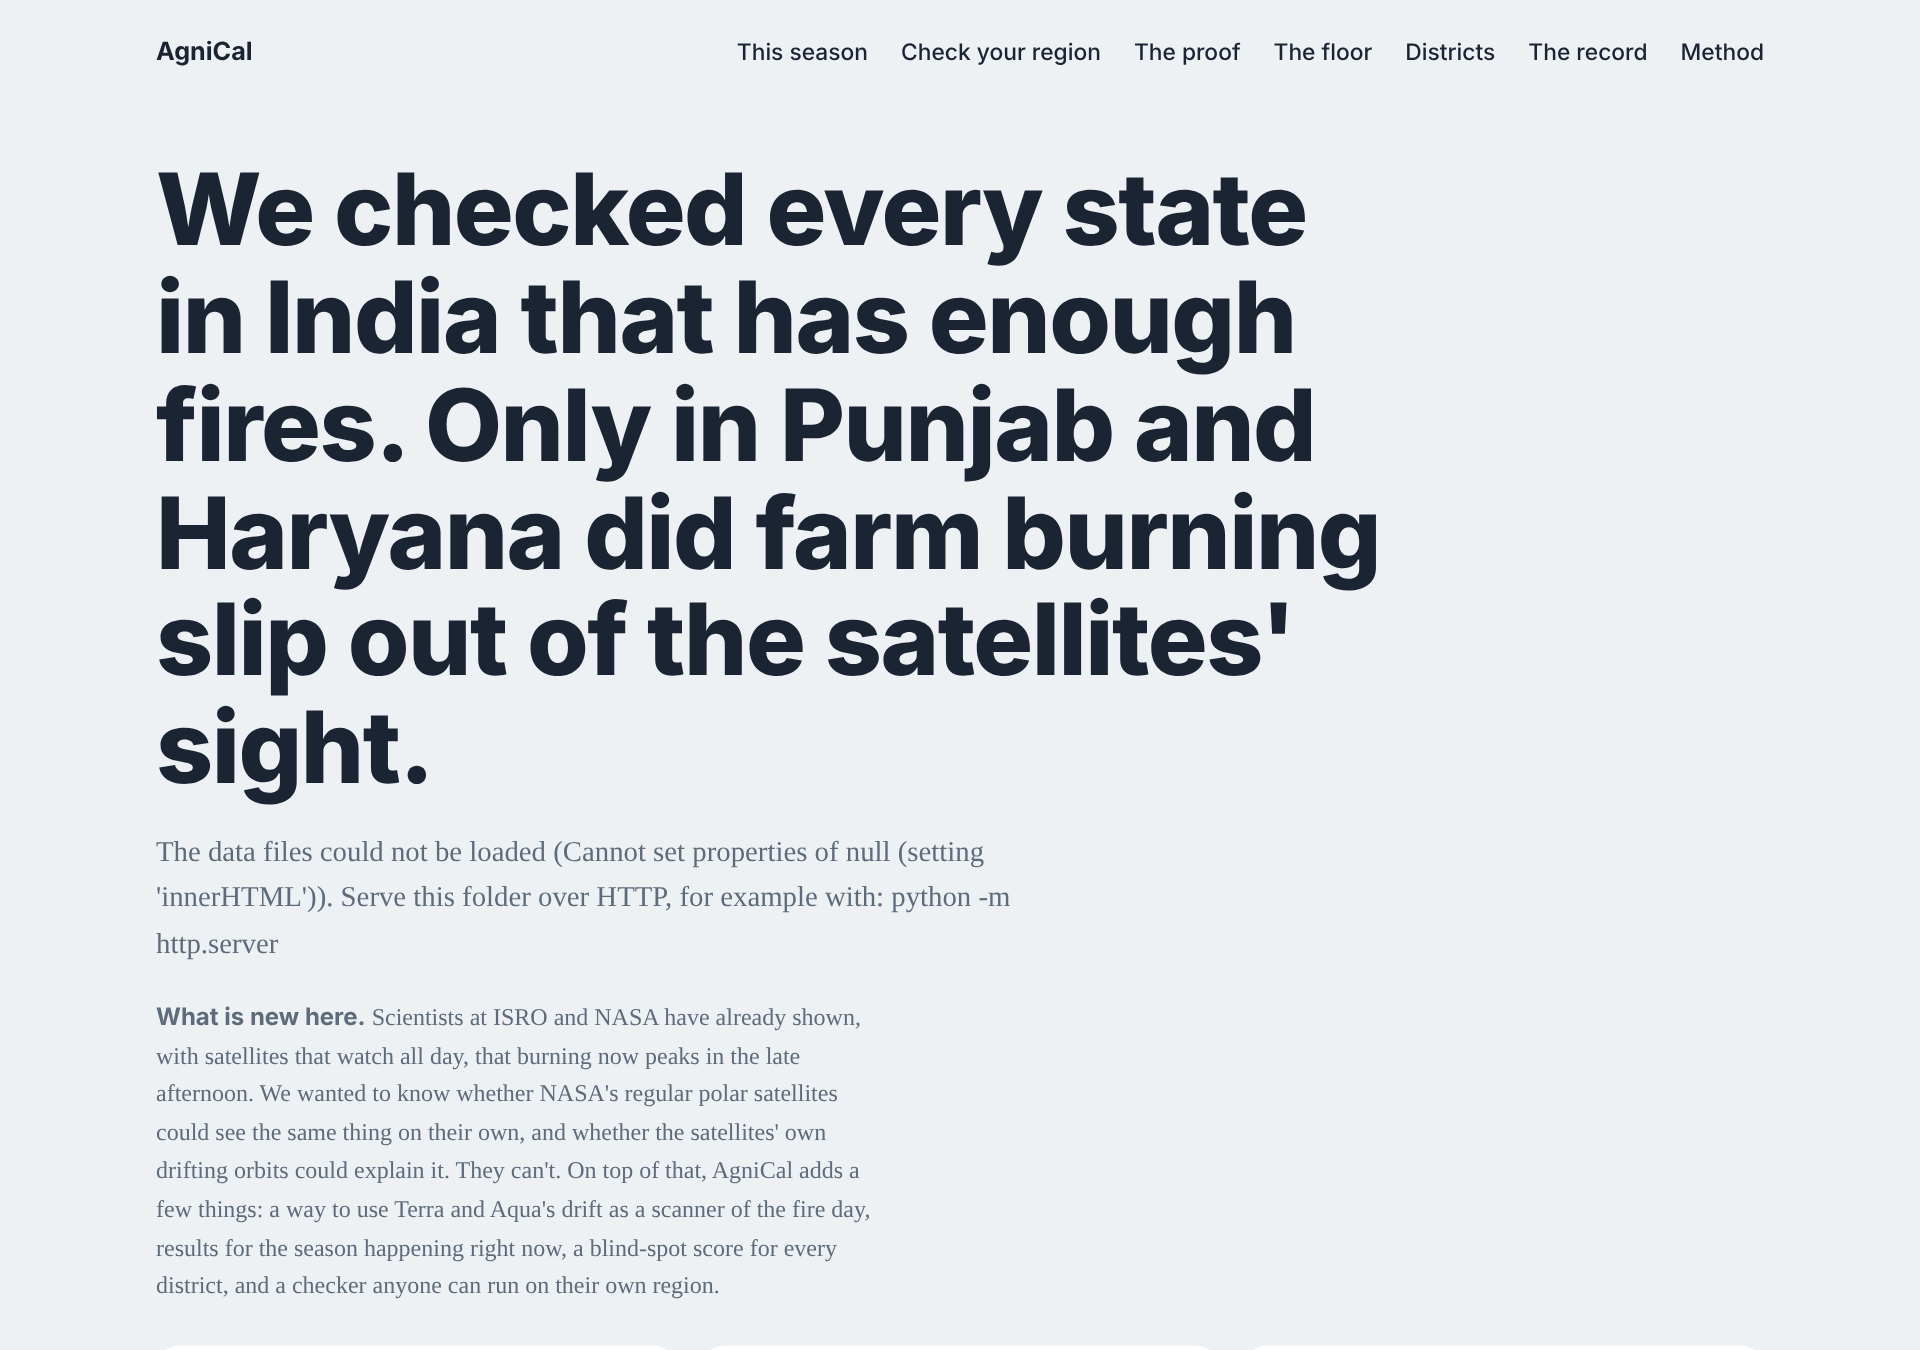
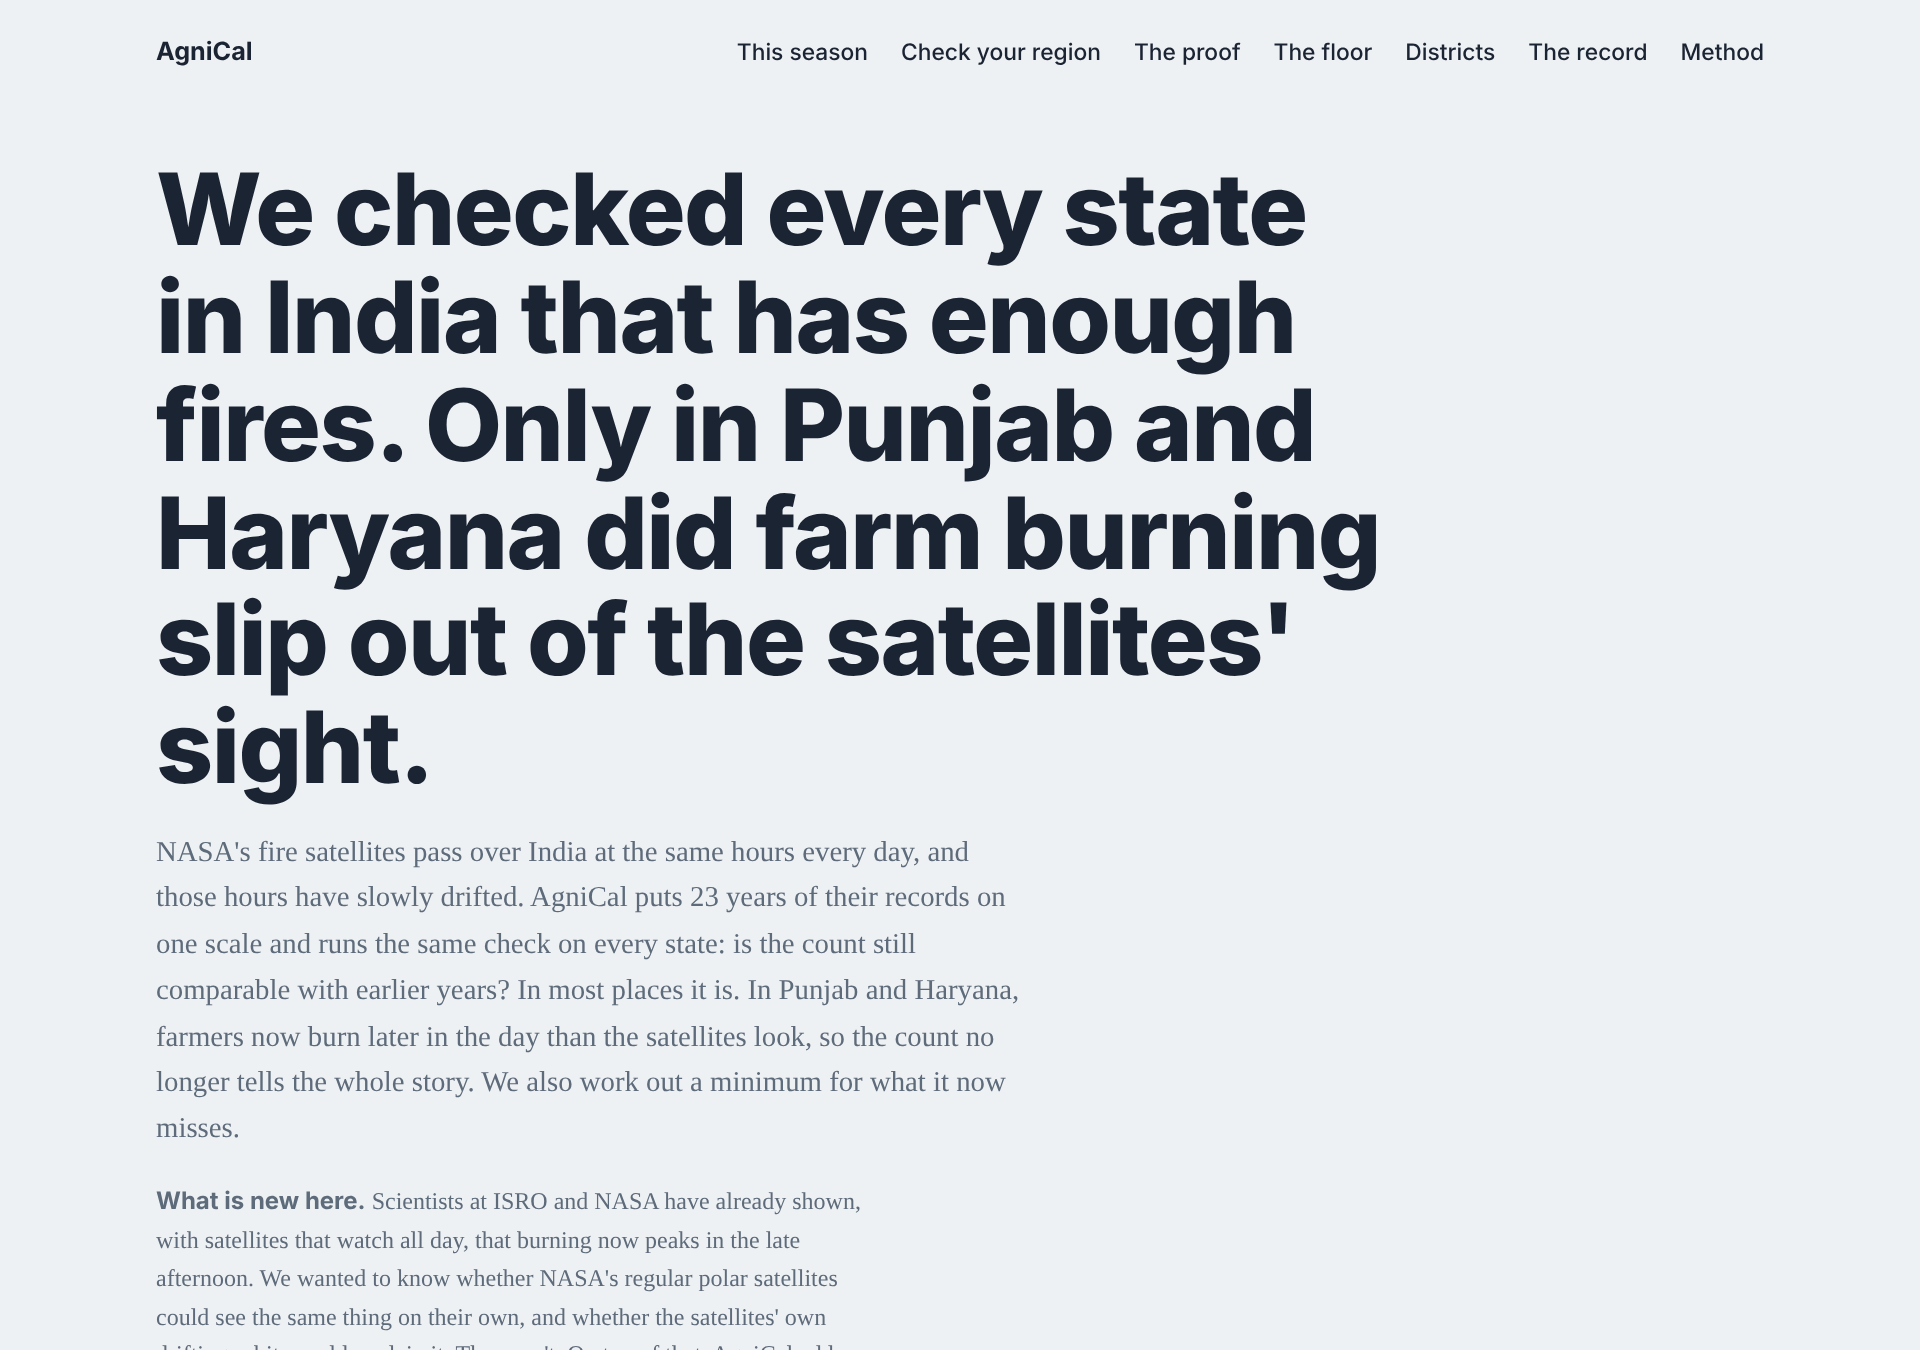
Rework README for a repository front page; add LICENSE and CITATION.cff
Claude-Session: https://claude.ai/code/session_011cFui58JV9NNeCqj7PEPdM

Changed region(s): [[0.0625, 0.6222, 0.5312, 1.0]]

diff --git a/README.md b/README.md
@@ -1,34 +1,56 @@
 # AgniCal
 
-**We checked every Indian state. Only in Punjab and Haryana did farm burning slip out of the satellites' sight.**
+**Punjab and Haryana's farm fires moved later in the day, and NASA's fire counts didn't follow.**
 
-NASA Space Apps Challenge 2026, challenge: *Harmonization of MODIS and VIIRS Hot Spots*
+[![Live site](https://img.shields.io/badge/live%20site-prithika--97.github.io%2Fagnical-E8590C)](https://prithika-97.github.io/agnical/)
+![Python](https://img.shields.io/badge/python-3.10%2B-3776AB)
+![Tests](https://img.shields.io/badge/tests-19%20passing-2E8B57)
+![License](https://img.shields.io/badge/license-MIT-lightgrey)
+![NASA Space Apps 2026](https://img.shields.io/badge/NASA%20Space%20Apps-2026-0B3D91)
 
-Crop-residue fires in Punjab and Haryana feed north India's winter smog, and claims of
-progress rest on one number: how many fires NASA's polar satellites count. Those satellites
-(MODIS on Terra and Aqua; VIIRS on Suomi NPP, NOAA-20 and NOAA-21) pass at the same hours every day.
+NASA Space Apps Challenge 2026, challenge: *Harmonization of MODIS and VIIRS Hot Spots*.
+**[Open the live site](https://prithika-97.github.io/agnical/)**
 
-Farmers burning later in the day is **not our discovery**. Jethva (2026, *Remote Sensing*),
-Singh et al. (ISRO SAC, 2025, *Current Science*) and iFOREST (2025) showed it with satellites
-that watch all day, and with burnt-area maps. We asked a different question: what does it mean for
-the combined MODIS-VIIRS record everyone uses, and can NASA's polar data show it on its own?
-This is what AgniCal adds:
+<p align="center"><img src="assets/scanner.png" alt="Fires seen by Terra and Aqua at the hour each looked, Punjab. 2023 onward leaves the old curve; the control (all other states) does not." width="860"></p>
 
-1. **One scale for 2003-2025**, with uncertainty. MODIS is converted to VIIRS-equivalent
-   counts, so the 2012 switch no longer looks like a jump in burning.
-2. **A record that knows when it stops being comparable.** Two indicators that need no model flag
-   the seasons in which burning moved out of the satellites' viewing hours.
-3. **A scanner built from the drift.** Terra and Aqua carry the same sensor and are sliding in opposite
-   directions (about 10:00 and 15:15 local time now), so each season gives two extra looks at the fire day.
-   The page has a "Move the satellite" slider, and the scanner and region checker open on All India. You can switch to any
-   state, or to the pool of every state outside Punjab and Haryana, which stays on the old curve while Punjab leaves it.
-   One caution: Terra and Aqua differ a little in sensitivity and scene conditions, and the slider fills in between real
-   looks, so it is not a measurement away from them.
-4. **A control for the satellites themselves.** Aqua and Terra both drifted in the same years, so every
-   test is repeated on the farm fires just across the border in Pakistani Punjab, which the same satellites see on the same passes.
-5. **A floor under the real count.** Aqua's later pass, in Suomi NPP units: a minimum for what the count now misses.
+*Each dot is one season seen by Terra (morning) or Aqua (afternoon), as a multiple of the early-afternoon count. Teal rings are every state outside Punjab and Haryana: they stay on the old curve while Punjab leaves it.*
 
-## What the data show (all computed by `pipeline.py`; see `reports/RESULTS.md`)
+## The finding in 30 seconds
+
+- NASA's polar satellites pass India at fixed hours. Terra and Aqua's passes have drifted, and in
+  Punjab and Haryana the burning has moved to the late afternoon.
+- Of the 13 Indian states with enough fires to test, **only Punjab and Haryana** show the shift.
+  The same satellites see no such change across the border in Pakistan or in the other states, so
+  it is not an orbit-drift artefact.
+- Suomi NPP's count says burning fell 95% from its 2016 peak. Aqua's later pass puts a floor
+  under that: the fall is **no more than about 83%**.
+- AgniCal turns this into a tested record (2003-2025, one scale), a region checker anyone can run on
+  their own FIRMS files, a district blind-spot index, and a conversion test that says where a fixed
+  MODIS-to-VIIRS mapping can still be trusted.
+
+## What is and isn't new
+
+Farmers burning later is **not our discovery**. Jethva (2026, *Remote Sensing*), Singh et al. (ISRO SAC,
+2025) and iFOREST (2025) showed it with satellites that watch all day and with burnt-area maps. We ask what it means for the
+combined MODIS-VIIRS record that everyone uses, and whether NASA's polar data can show it on their own.
+
+| Added here | Where |
+|---|---|
+| One MODIS-to-VIIRS scale for 2003-2025, with uncertainty | `agnical/harmonize.py` |
+| Two indicators that flag seasons where the count stops being comparable | `agnical/diurnal.py` |
+| Controls: Pakistani Punjab strip, all unflagged Indian states, near-nadir, VIIRS-only | `agnical/controls.py` |
+| The same test on every Indian state and season, including the season under way | `agnical/national.py` |
+| The drifting-satellite scanner: Terra and Aqua as two extra looks at the fire day | `docs/index.html` |
+| A floor under the real count, cross-checked against a published geostationary estimate | `agnical/controls.py` |
+| Where a fixed Aqua-to-VIIRS conversion holds across India | `scripts/harmonize_india_test.py` |
+| A checker that runs the test on any FIRMS files, in the browser | `docs/index.html` |
+
+<p align="center"><img src="assets/india_map.png" alt="Map of Indian states: Punjab shows a timing break, Haryana and Uttar Pradesh one indicator, most others none." width="520"></p>
+
+<details>
+<summary><b>Detailed results</b> (everything below is computed by the pipeline)</summary>
+
+### Punjab and Haryana against the border strip (`pipeline.py`, `reports/RESULTS.md`)
 
 | | Punjab + Haryana, India | Punjab, Pakistan (border strip) |
 |---|---|---|
@@ -83,7 +105,7 @@ the states that show no flag, which are seen by the same drifting satellites.
 - **Check your own region**: the website runs the same test in the browser on FIRMS archive
   CSVs for any area on Earth, or on any Indian state and any months.
 
-### Harmonization, validated honestly (leave one season out, 2012-2022)
+### Harmonization (leave one season out, 2012-2022)
 
 | Method | Cell deviance | Paddy total error | Wheat total error | Paddy peak period exact |
 |---|---|---|---|---|
@@ -98,6 +120,9 @@ cell-level maps, the timing of the seasonal peak, and the wheat season (p = 0.03
 Suomi NPP stopped delivering data on 2 Nov 2026. NOAA-21 counts convert to Suomi NPP units by
 a factor of 1.03 (yearly range 1.01-1.12, 2023-2025).
 
+
+</details>
+
 ## Run it
 
 ```bash
@@ -111,6 +136,19 @@ pytest -q
 
 The website in `docs/` is static (HTML, JSON, Plotly.js) and is served as-is by GitHub Pages.
 The harmonized record is one file: `docs/data/agnical_record.csv`.
+
+## Repository layout
+
+```
+agnical/            analysis modules (ingest, grid, harmonize, diurnal, controls, national, export)
+pipeline.py         Punjab + Haryana run: harmonized record, timing analysis, site data
+national_pipeline.py  all-India run
+scripts/            one-off helpers (reduce_snpp.py, harmonize_india_test.py)
+docs/               the website (static; served by GitHub Pages) and docs/data/*.json, agnical_record.csv
+reports/            RESULTS.md, written from the computed metrics
+tests/              pytest suite (19 tests)
+assets/             images used in this README
+```
 
 ## Method
 
@@ -145,6 +183,14 @@ by `regions.build_boundary_file` and `controls.build_region_file`.
 - Jethva, H. (2026). Timing the Flames: Geostationary Satellite Detection of Diurnally Shifting Stubble Burning in Northwestern India. *Remote Sensing* 18(10), 1506. https://doi.org/10.3390/rs18101506
 - Singh, N., Pradhan, R., Shukla, B. P., Pandya, M. R. (Space Applications Centre, ISRO), communication in *Current Science*, 2025, as reported by The Tribune, 10 Dec 2025.
 - iFOREST (2025). Stubble Burning Status Report 2025, as reported by The Tribune, 9 Dec 2025.
+
+## Cite
+
+If you use the record or the test, please cite this repository (see `CITATION.cff`).
+
+## License
+
+MIT. NASA FIRMS data and the boundary files keep their own licenses (see above).
 
 ## Use of AI
 
